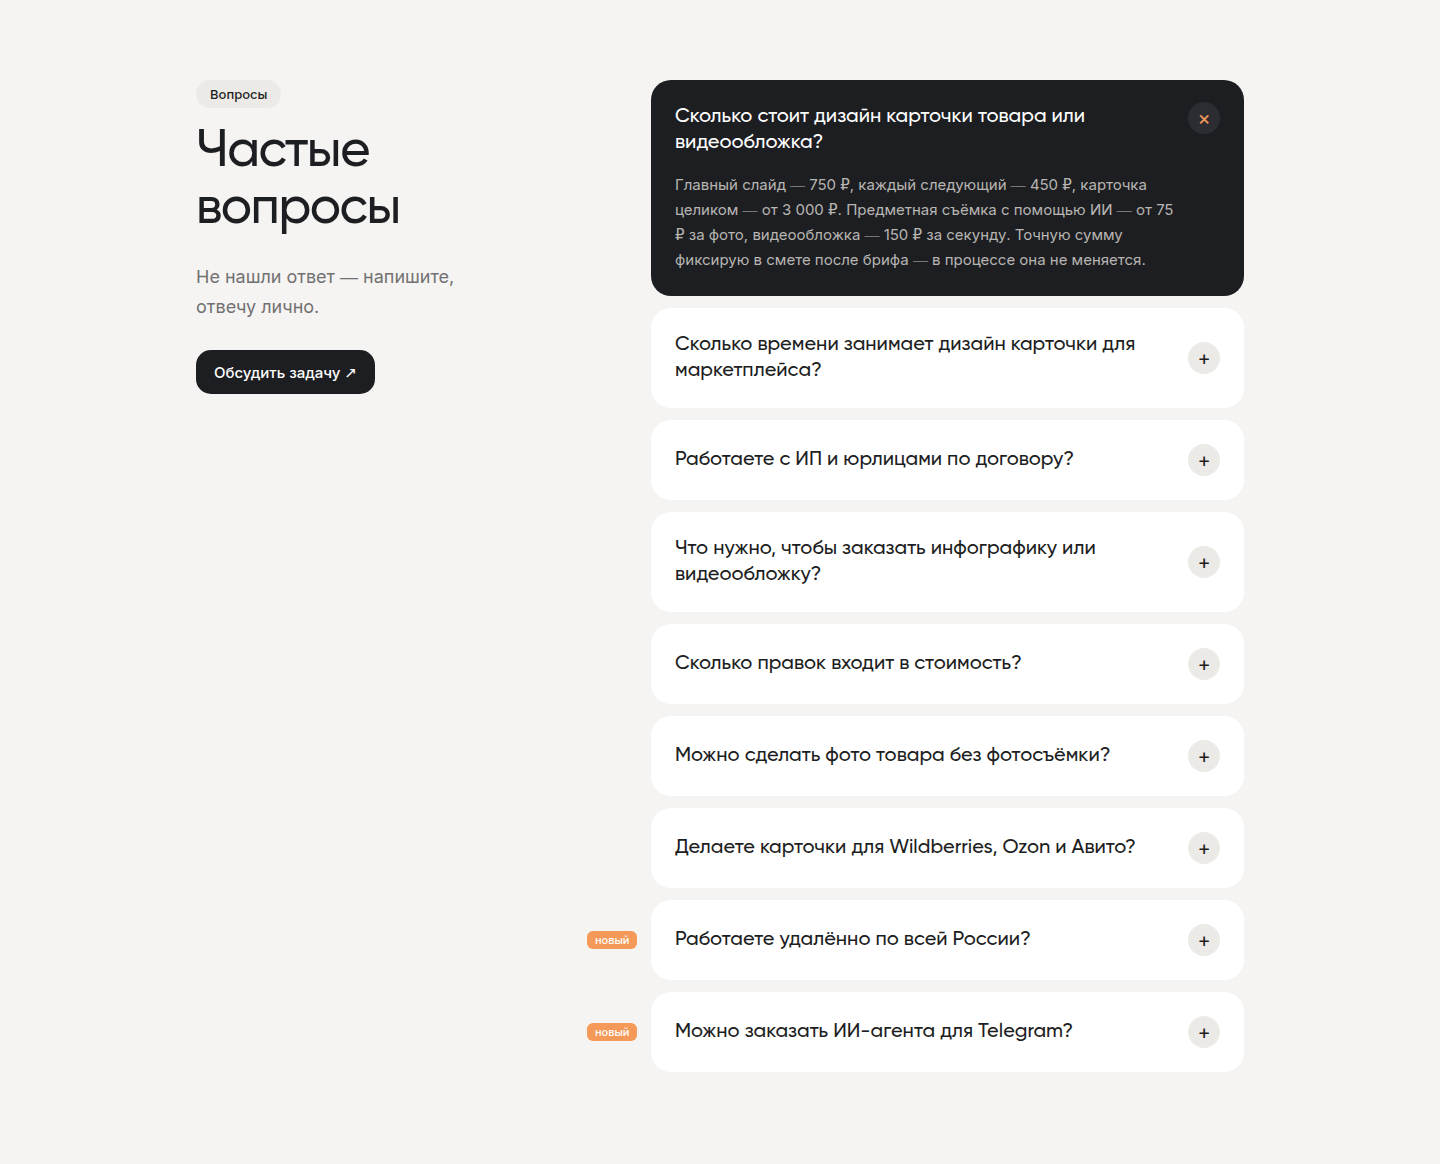
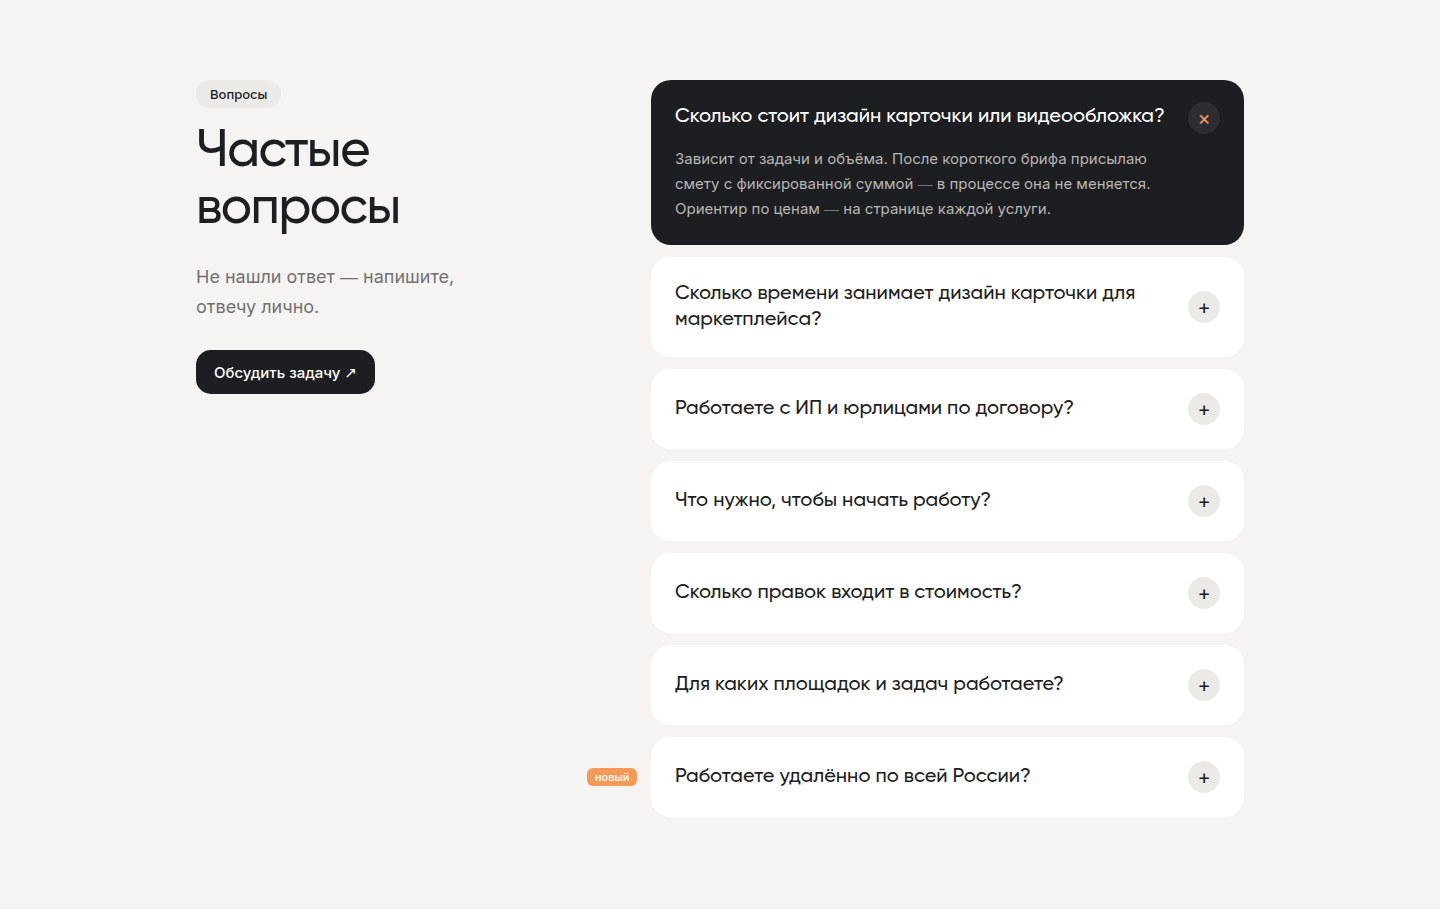
SEO-макеты: без цен в FAQ и сниппетах, вопросы разнесены по услугам
Claude-Session: https://claude.ai/code/session_01Ea7sNnJutX3PZfqWbVPvng

diff --git a/docs/site/seo-mockup/serp.html b/docs/site/seo-mockup/serp.html
@@ -37,22 +37,22 @@ body { width: 1100px; background: #fff; font: 400 15px/21px Inter, Arial, sans-s
   <p class="cap">После</p>
   <div class="res new"><div class="url"><span class="fav">m<i>/</i></span>muntyanu-design.ru › services › infographics</div>
     <span class="t">Инфографика для Wildberries, Ozon и Авито — дизайн карточек товара | m/design</span>
-    <p class="d">Дизайн карточек для маркетплейсов: главный слайд от 750 ₽, карточка целиком от 3 000 ₽. Учитываю требования площадок, проходит модерацию.</p>
-    <div class="faq"><div>Инфографика пройдёт модерацию Wildberries и Ozon?</div><div>Можно заказать только главный слайд?</div></div></div>
+    <p class="d">Дизайн карточек для маркетплейсов: главный слайд и вся серия в одном стиле. Учитываю требования площадок — карточка проходит модерацию.</p>
+    <div class="faq"><div>Инфографика пройдёт модерацию Wildberries, Ozon и Авито?</div><div>Можно заказать только главный слайд?</div></div></div>
   <div class="res new"><div class="url"><span class="fav">m<i>/</i></span>muntyanu-design.ru</div>
     <span class="t">m/design — дизайн, автоматизация и ИИ для бизнеса</span>
     <p class="d">Инфографика и карточки для Wildberries, Ozon и Авито, ИИ-фото товаров, видеообложки и ИИ-агенты для бизнеса. Работаю удалённо по всей России.</p>
-    <div class="faq"><div>Сколько стоит дизайн карточки товара или видеообложка?</div><div>Делаете карточки для Wildberries, Ozon и Авито?</div></div></div>
+    <div class="faq"><div>Работаете с ИП и юрлицами по договору?</div><div>Для каких площадок и задач работаете?</div></div></div>
 </div>
 </div>
 <p class="cap" style="margin-top:8px">Остальные услуги</p>
 <div class="cols" style="margin-top:0">
   <div class="res new"><div class="url"><span class="fav">m<i>/</i></span>muntyanu-design.ru › services › predmetnaya-syomka</div>
     <span class="t">Предметная съёмка товара с помощью ИИ — без студии | m/design</span>
-    <p class="d">Фото товара на белом фоне или в интерьере по вашим снимкам с телефона. От 75 ₽ за фото, для карточек Wildberries, Ozon и Авито.</p></div>
+    <p class="d">Фото товара на белом фоне или в интерьере по вашим снимкам с телефона — для карточек Wildberries, Ozon и Авито.</p></div>
   <div class="res new"><div class="url"><span class="fav">m<i>/</i></span>muntyanu-design.ru › services › videooblozhki</div>
     <span class="t">Видеообложка для карточки Wildberries и Ozon | m/design</span>
-    <p class="d">Ролик 3:4 на место главного фото — двигается в выдаче и цепляет взгляд. Из ваших фото, без съёмки, 150 ₽ за секунду.</p></div>
+    <p class="d">Ролик 3:4 на место главного фото — двигается в выдаче и цепляет взгляд. Собираю из ваших фото, без съёмки.</p></div>
   <div class="res new"><div class="url"><span class="fav">m<i>/</i></span>muntyanu-design.ru › services › ii-agenty</div>
     <span class="t">ИИ-агент для бизнеса: ответы клиентам и заявки в Telegram | m/design</span>
     <p class="d">Бот на базе ИИ отвечает клиентам по вашей базе, принимает заявки и собирает отчёты — круглосуточно, в Telegram и на сайте.</p></div>

diff --git a/docs/site/seo-mockup/faq-services.html b/docs/site/seo-mockup/faq-services.html
@@ -1,0 +1,40 @@
+<!doctype html><html lang="ru"><head><meta charset="utf-8"><title>FAQ услуг</title>
+<style>
+@font-face { font-family: Gilroy; src: url(Gilroy-Medium.woff2); font-weight: 500; }
+@font-face { font-family: Inter; src: url(/home/user/city-main/node_modules/@fontsource/inter/files/inter-cyrillic-400-normal.woff2); font-weight: 400; }
+@font-face { font-family: Inter; src: url(/home/user/city-main/node_modules/@fontsource/inter/files/inter-cyrillic-500-normal.woff2); font-weight: 500; }
+* { box-sizing: border-box; margin: 0; padding: 0; }
+body { width: 1440px; background: #F6F4F2; font: 400 15px/25px Inter, sans-serif; color: #717171; padding: 64px 96px; }
+.grid { display: grid; grid-template-columns: 1fr 1fr; gap: 48px 40px; }
+h3 { font: 500 26px/1.2 Gilroy; color: #1D1E22; margin-bottom: 14px; letter-spacing: -.4px; }
+.q { background: #fff; border-radius: 16px; padding: 16px 20px; margin-bottom: 8px; font: 500 17px/23px Gilroy; color: #1D1E22; display: flex; justify-content: space-between; gap: 12px; align-items: center; }
+.q::after { content: "+"; flex: none; width: 28px; height: 28px; border-radius: 50%; background: #ECEAE7; display: grid; place-items: center; font: 400 18px Inter; }
+.q small { display: block; font: 400 13px/18px Inter; color: #A1A09F; margin-top: 4px; }
+.m { border-left: 3px solid #F59958; }
+.n { border-left: 3px solid #3E7BFA; }
+.leg { display: flex; gap: 24px; margin-bottom: 28px; font: 500 14px Inter; color: #1D1E22; }
+.leg i { display: inline-block; width: 14px; height: 14px; border-radius: 3px; margin-right: 8px; vertical-align: -2px; }
+</style></head><body>
+<div class="leg"><span><i style="background:#F59958"></i>переехал с главной</span><span><i style="background:#3E7BFA"></i>вопрос переформулирован под поиск</span><span><i style="background:#fff;outline:1px solid #ddd"></i>без изменений</span></div>
+<div class="grid">
+ <div><h3>Инфографика</h3>
+  <div class="q n">Инфографика пройдёт модерацию Wildberries, Ozon и Авито?<small>было: «Учитываете требования Ozon и Wildberries?»</small></div>
+  <div class="q">Можно заказать только главный слайд?</div>
+  <div class="q">Нужны ли фото товара?</div></div>
+ <div><h3>Предметная съёмка</h3>
+  <div class="q m">Можно сделать фото товара без фотосъёмки?<small>с главной: «Можно без съёмки товара?»</small></div>
+  <div class="q n">Нужно ли отправлять товар для предметной съёмки?<small>было: «Нужно ли отправлять товар?»</small></div>
+  <div class="q">Товар на кадре будет как настоящий?</div>
+  <div class="q">Можно в интерьере, а не на белом фоне?</div>
+  <div class="q">Сколько кадров я получу?</div></div>
+ <div><h3>Видеообложки</h3>
+  <div class="q n">Можно сделать видеообложку для Wildberries без съёмки?<small>было: «Нужна ли съёмка?»</small></div>
+  <div class="q">Где показывается видеообложка?</div>
+  <div class="q">Нужен ли звук?</div>
+  <div class="q">Сколько длится ролик?</div></div>
+ <div><h3>ИИ-агенты</h3>
+  <div class="q n">Где работает ИИ-агент: в Telegram или на сайте?<small>было: «Где работает агент?»</small></div>
+  <div class="q">А если агент ответит неправильно?</div>
+  <div class="q">Где хранятся данные клиентов?</div>
+  <div class="q">Нужно ли платить за сервисы отдельно?</div></div>
+</div></body></html>

diff --git a/docs/site/seo-mockup/faq.html b/docs/site/seo-mockup/faq.html
@@ -23,15 +23,13 @@ h2 { font: 700 52px/1.1 Gilroy; letter-spacing: -1.5px; color: #1D1E22; margin: 
 <div class="wrap">
   <div><span class="pill">Вопросы</span><h2>Частые<br>вопросы</h2><p class="lead">Не нашли ответ — напишите,<br>отвечу лично.</p><span class="btn">Обсудить задачу ↗</span></div>
   <div>
-    <div class="q open"><span>Сколько стоит дизайн карточки товара или видеообложка?</span><p>Главный слайд — 750 ₽, каждый следующий — 450 ₽, карточка целиком — от 3 000 ₽. Предметная съёмка с помощью ИИ — от 75 ₽ за фото, видеообложка — 150 ₽ за секунду. Точную сумму фиксирую в смете после брифа — в процессе она не меняется.</p></div>
+    <div class="q open"><span>Сколько стоит дизайн карточки или видеообложка?</span><p>Зависит от задачи и объёма. После короткого брифа присылаю смету с фиксированной суммой — в процессе она не меняется. Ориентир по ценам — на странице каждой услуги.</p></div>
     <div class="q">Сколько времени занимает дизайн карточки для маркетплейса?</div>
     <div class="q">Работаете с ИП и юрлицами по договору?</div>
-    <div class="q">Что нужно, чтобы заказать инфографику или видеообложку?</div>
+    <div class="q">Что нужно, чтобы начать работу?</div>
     <div class="q">Сколько правок входит в стоимость?</div>
-    <div class="q">Можно сделать фото товара без фотосъёмки?</div>
-    <div class="q">Делаете карточки для Wildberries, Ozon и Авито?</div>
+    <div class="q">Для каких площадок и задач работаете?</div>
     <div class="q"><b class="new">новый</b>Работаете удалённо по всей России?</div>
-    <div class="q"><b class="new">новый</b>Можно заказать ИИ-агента для Telegram?</div>
   </div>
 </div>
 </body></html>
